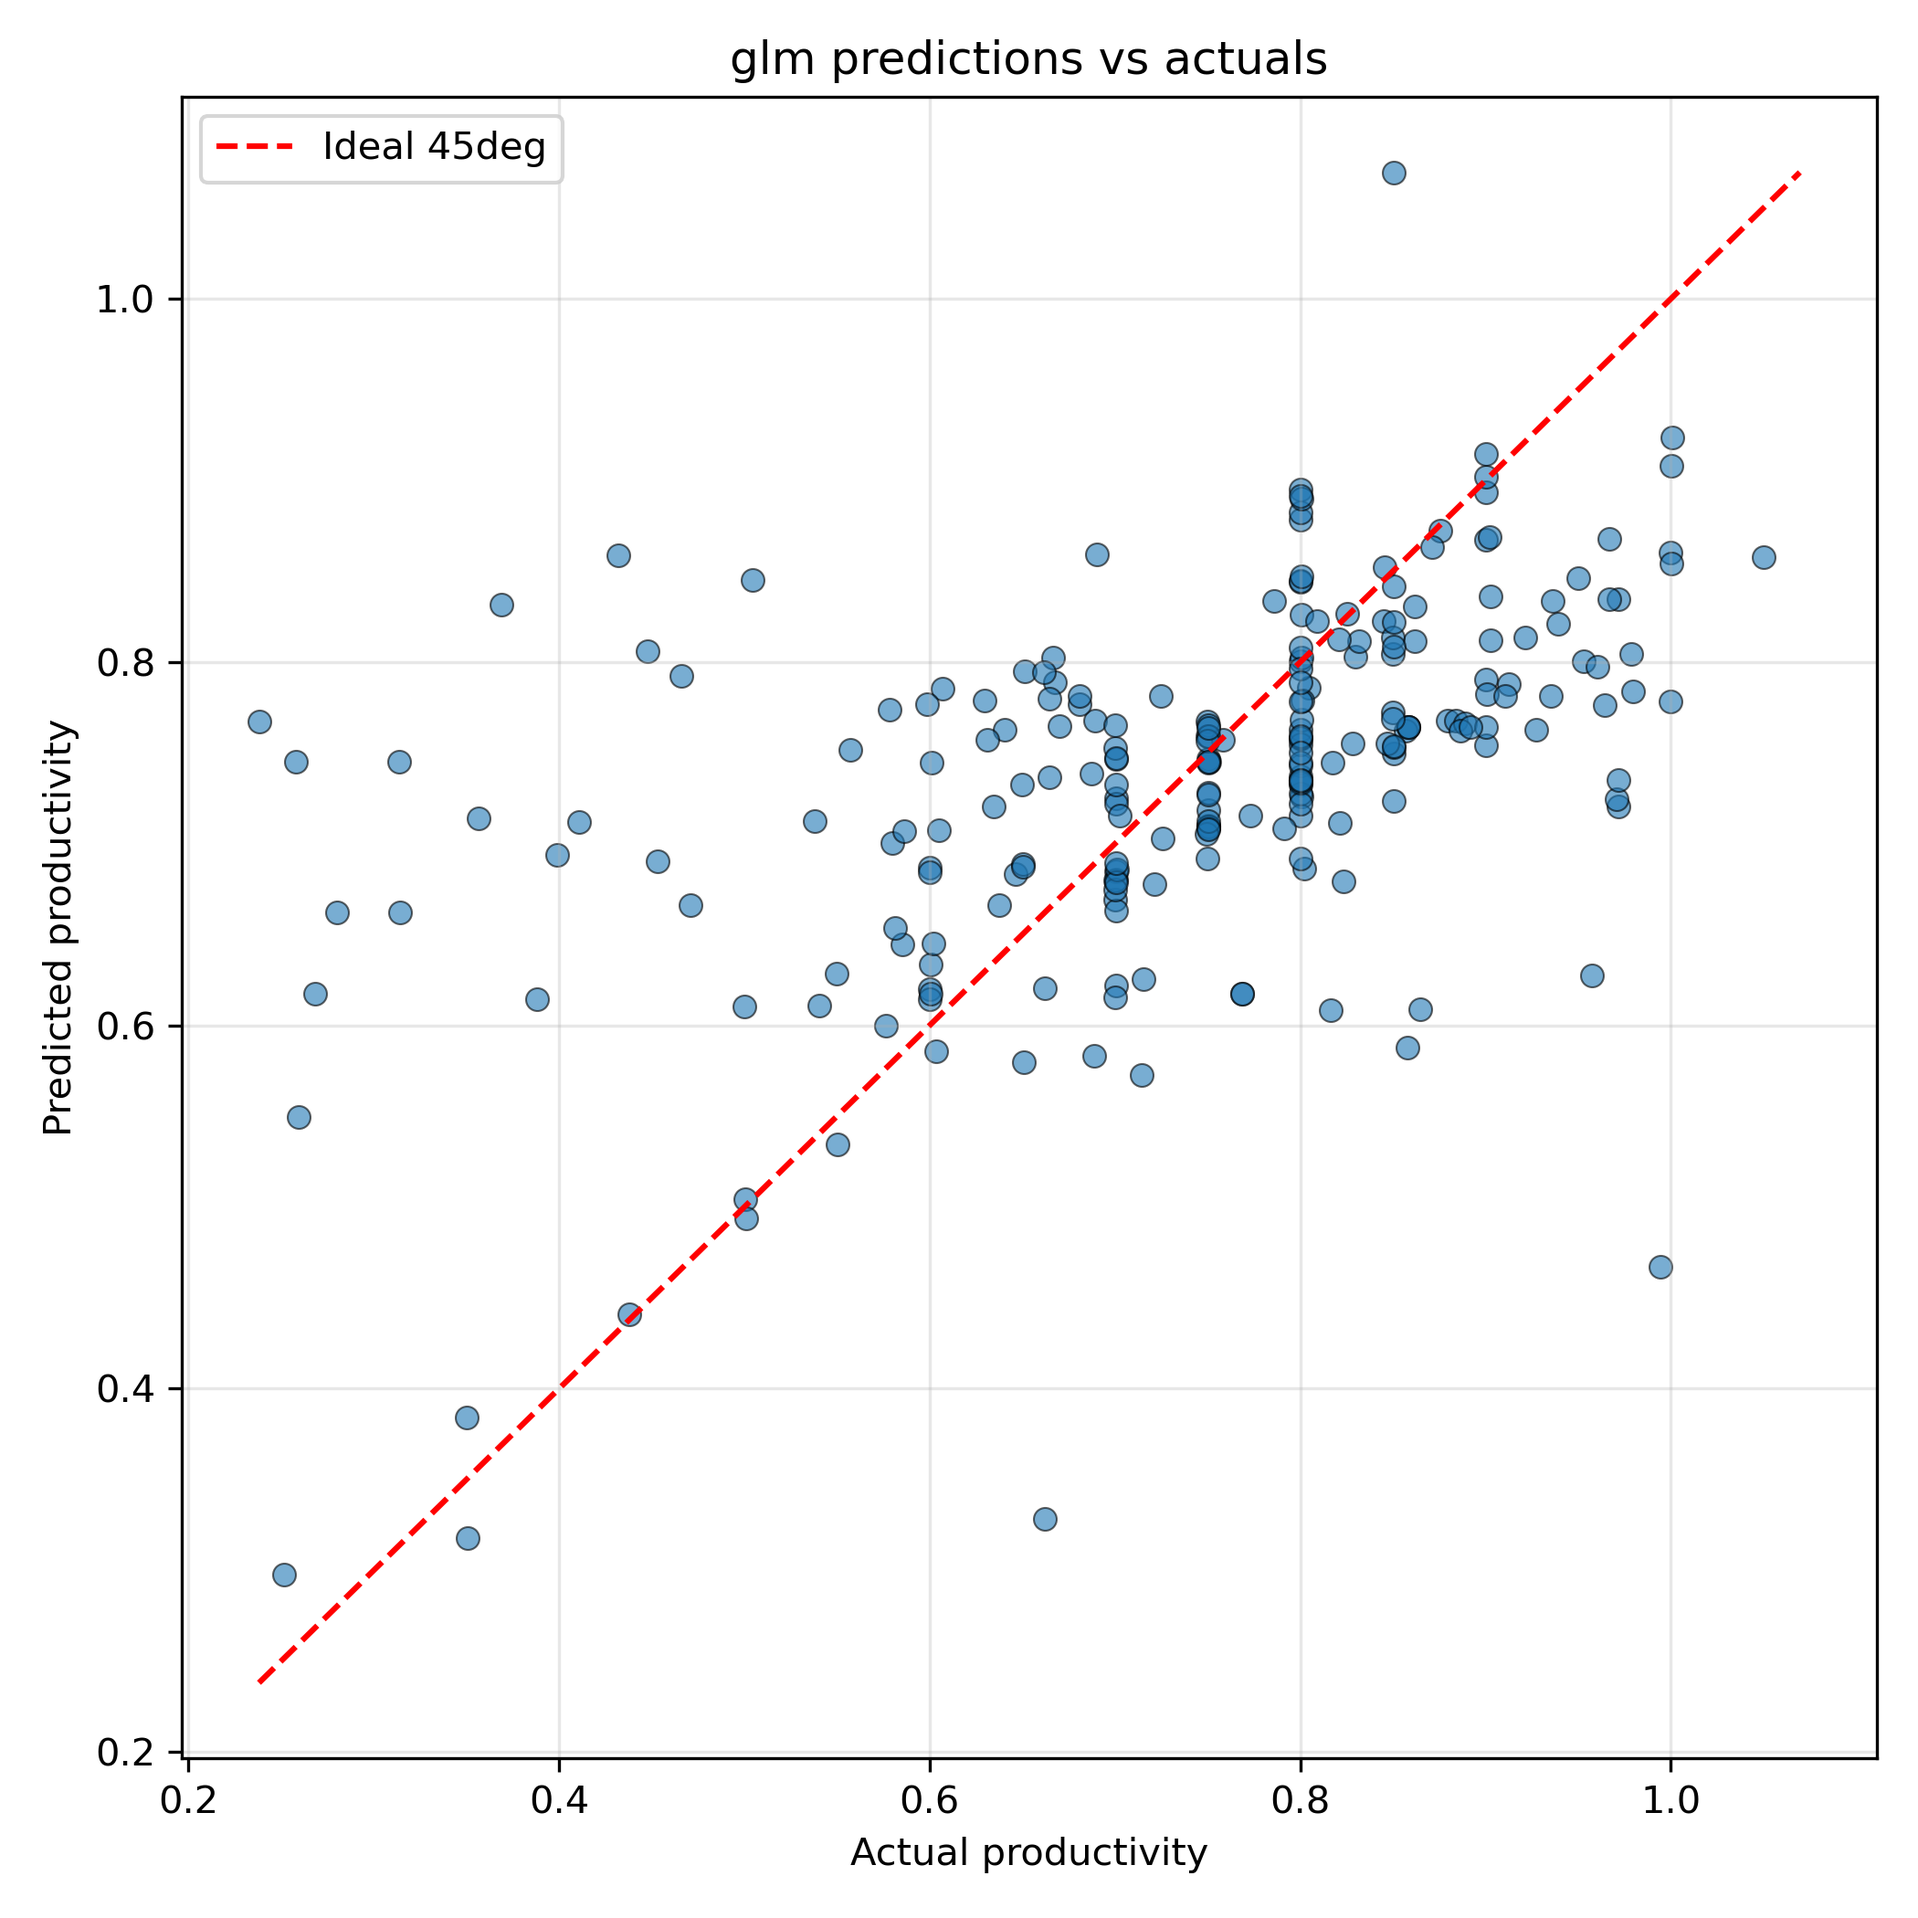
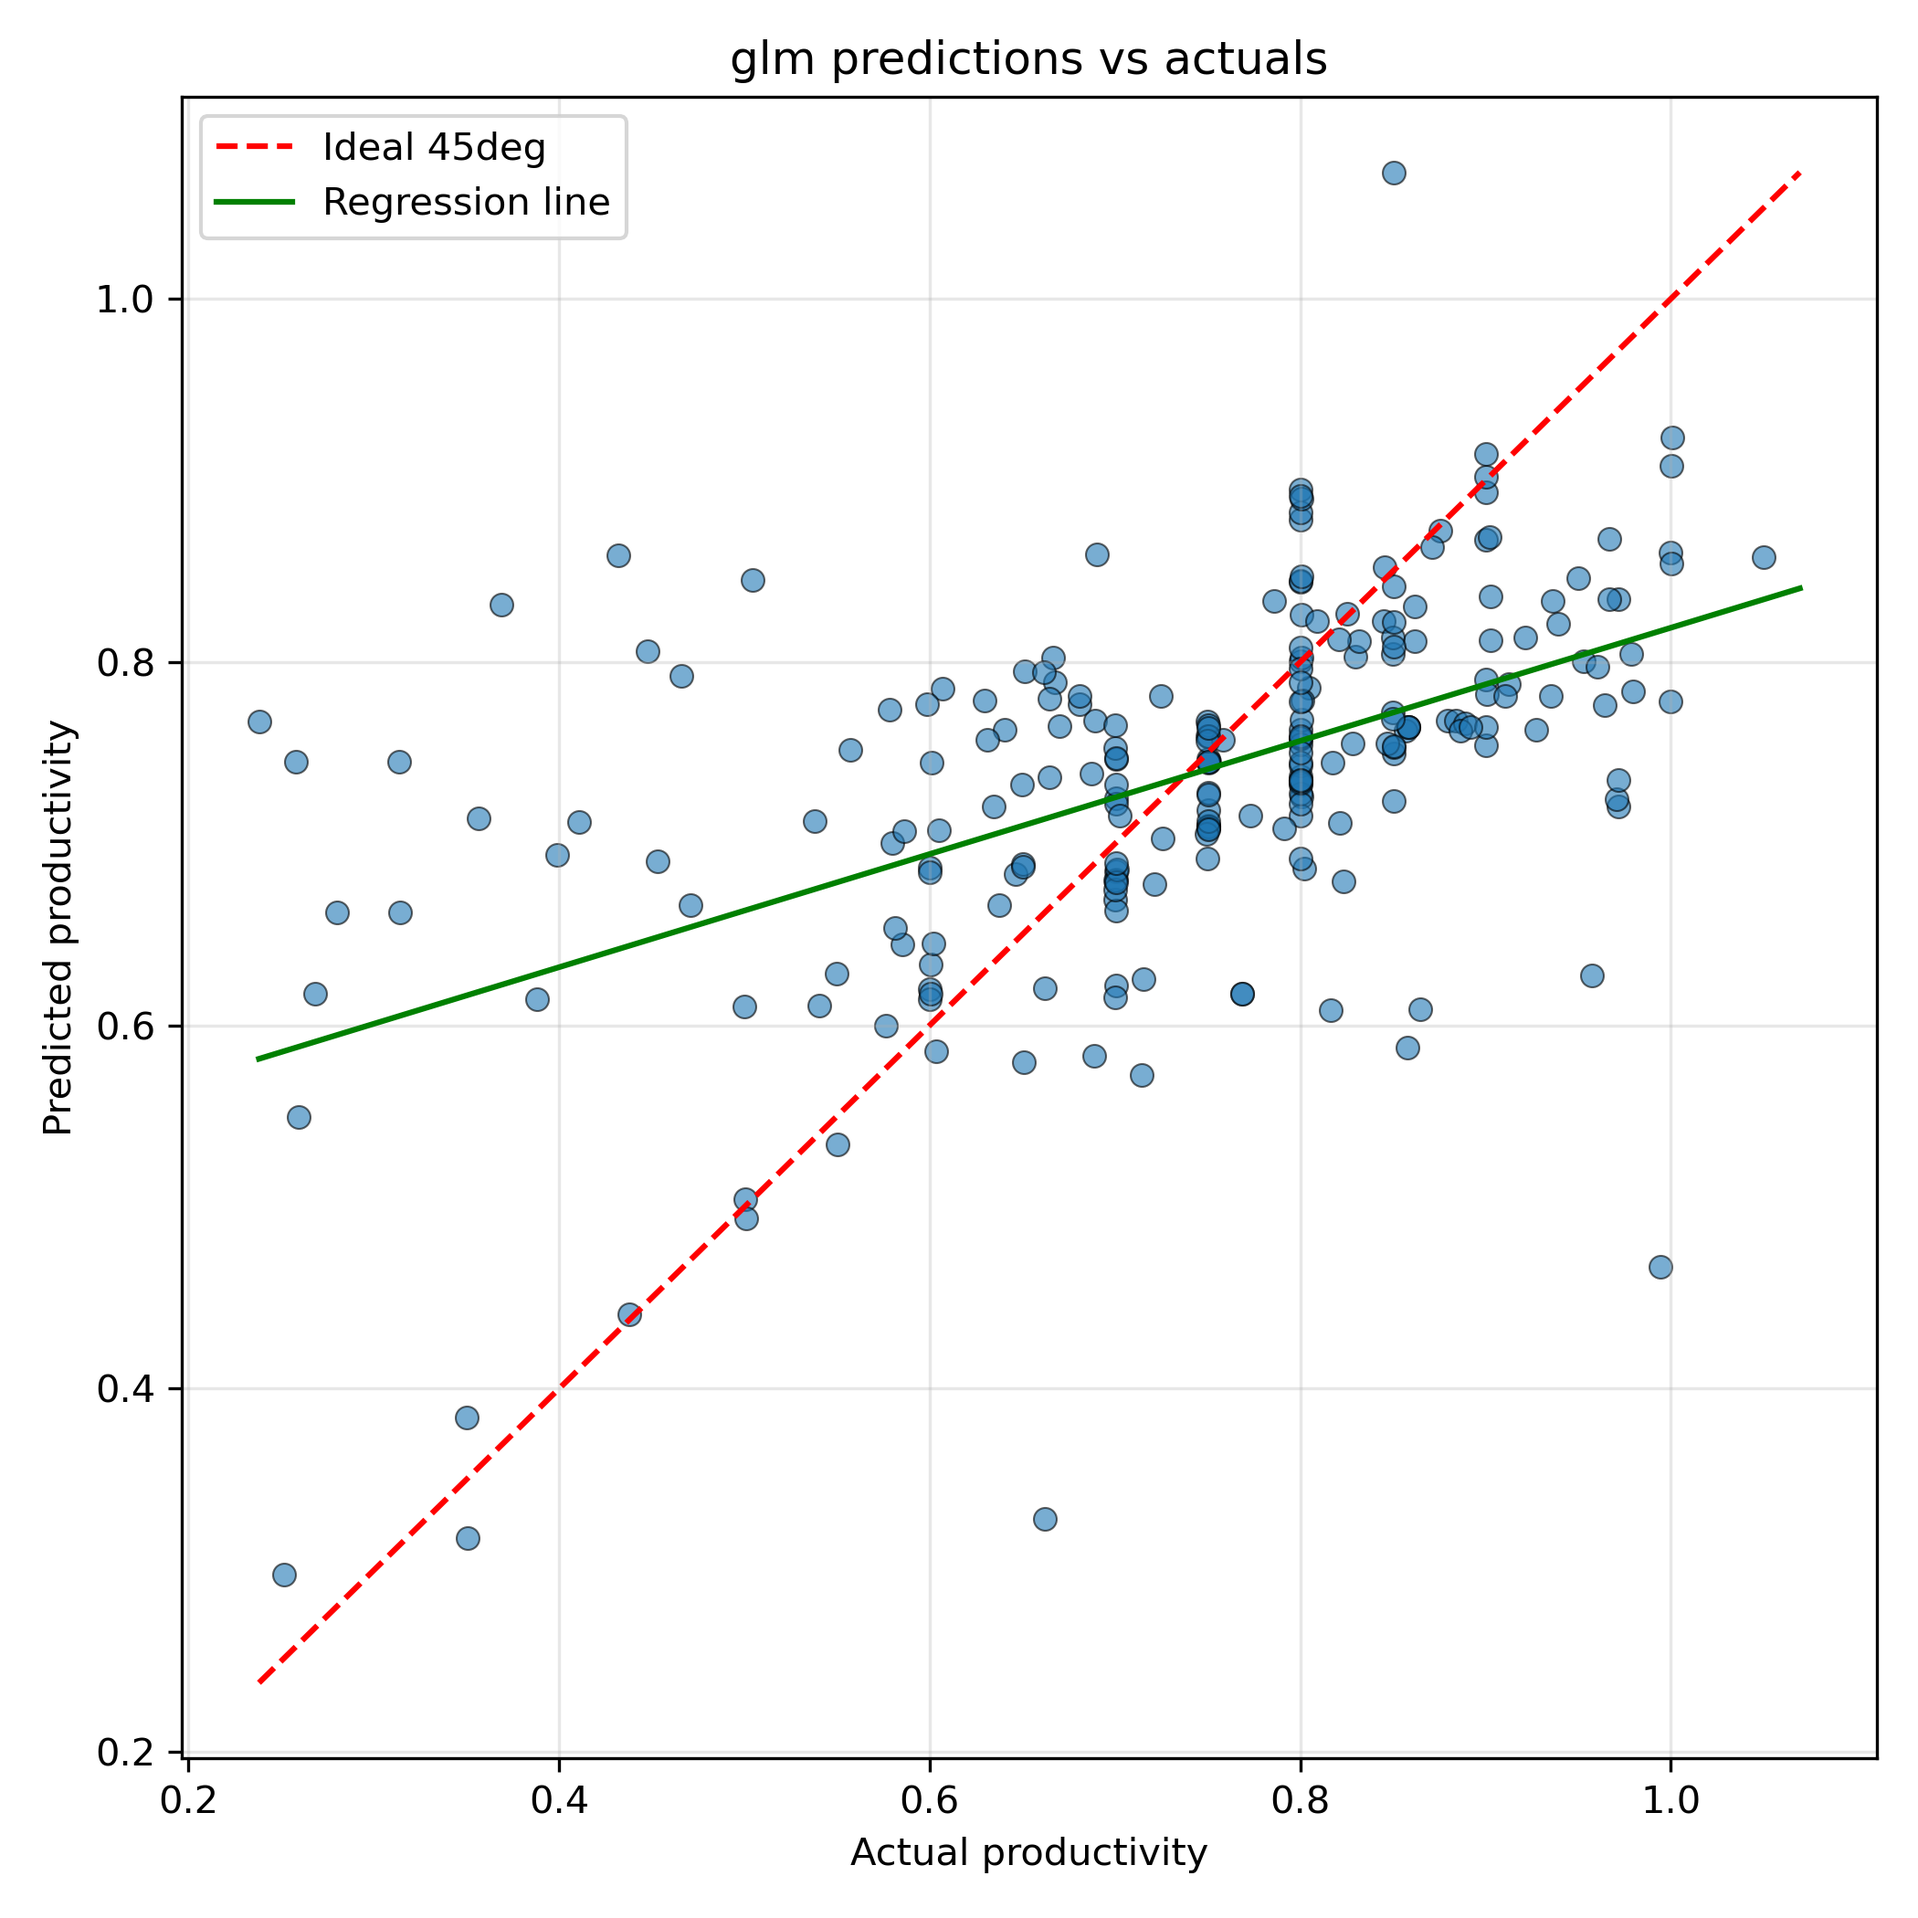
added regression lines on predicition graphs

diff --git a/src/package/evaluate_models.py b/src/package/evaluate_models.py
@@ -8,6 +8,7 @@ from typing import Any, Dict, Tuple
 
 import joblib
 import matplotlib.pyplot as plt
+import numpy as np
 import pandas as pd
 
 from package.models.model_training import (
@@ -75,6 +76,11 @@ def plot_predictions(
     min_val = min(y_true.min(), y_pred.min())
     max_val = max(y_true.max(), y_pred.max())
     ax.plot([min_val, max_val], [min_val, max_val], color="red", linestyle="--", label="Ideal 45deg")
+
+    # Fit and plot regression line of predicted vs actual.
+    slope, intercept = np.polyfit(y_true, y_pred, deg=1)
+    xs = np.linspace(min_val, max_val, 100)
+    ax.plot(xs, slope * xs + intercept, color="green", linestyle="-", label="Regression line")
 
     ax.set_xlabel("Actual productivity")
     ax.set_ylabel("Predicted productivity")
